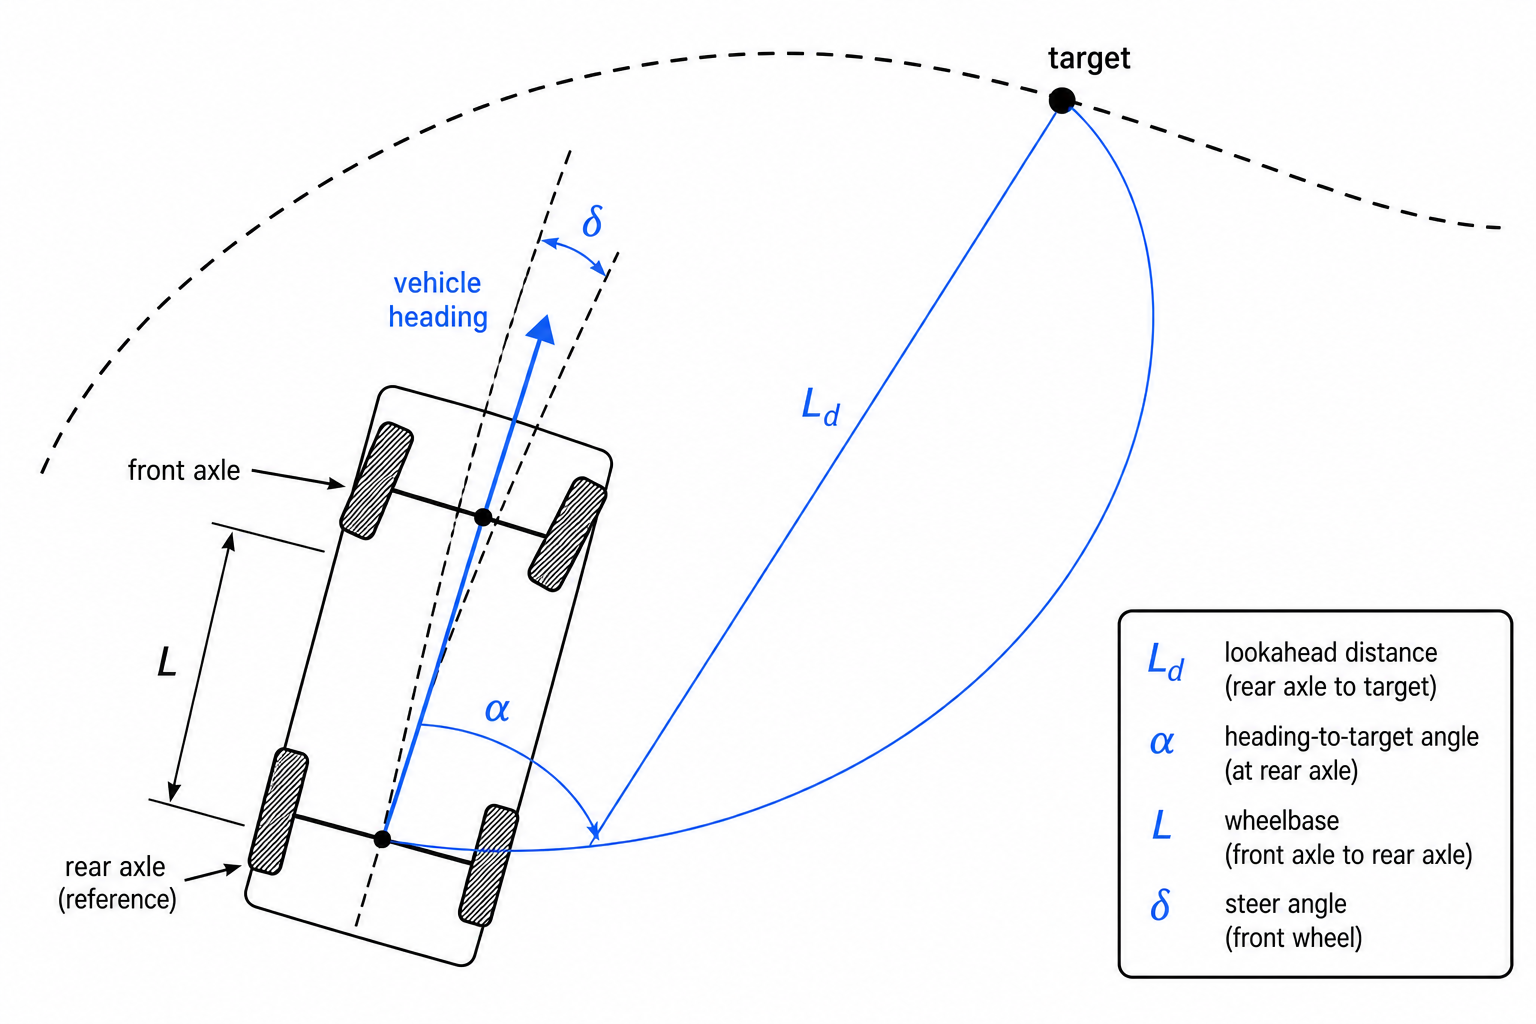
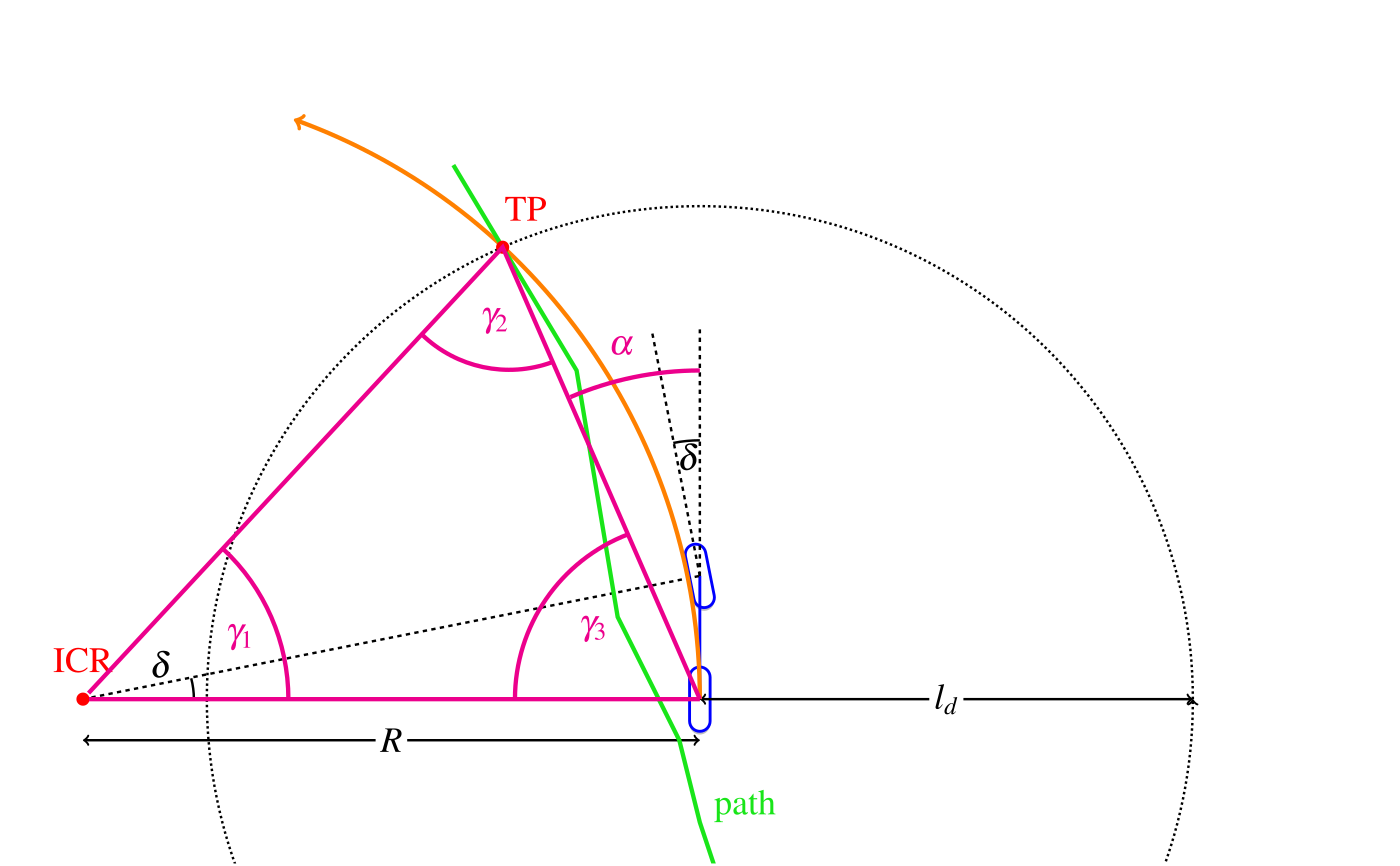
fix: updated pure pursuit diagram

diff --git a/onboarding/GUIDE.md b/onboarding/GUIDE.md
@@ -215,6 +215,8 @@ Pure Pursuit picks a **lookahead** point on the path ahead of the car and steers
 
 ![Pure Pursuit geometry](figures/pure_pursuit_geometry.png)
 
+*Mario Theers and Mankaran Singh, [Algorithms for Automated Driving](https://thomasfermi.github.io/Algorithms-for-Automated-Driving/Control/PurePursuit.html), “The magenta triangle helps us to establish a formula for δ.” Licensed under [CC BY 4.0](https://creativecommons.org/licenses/by/4.0/).*
+
 | Symbol | Meaning |
 |--------|---------|
 | **Ld** | Lookahead distance — how far ahead on the path we chase |
